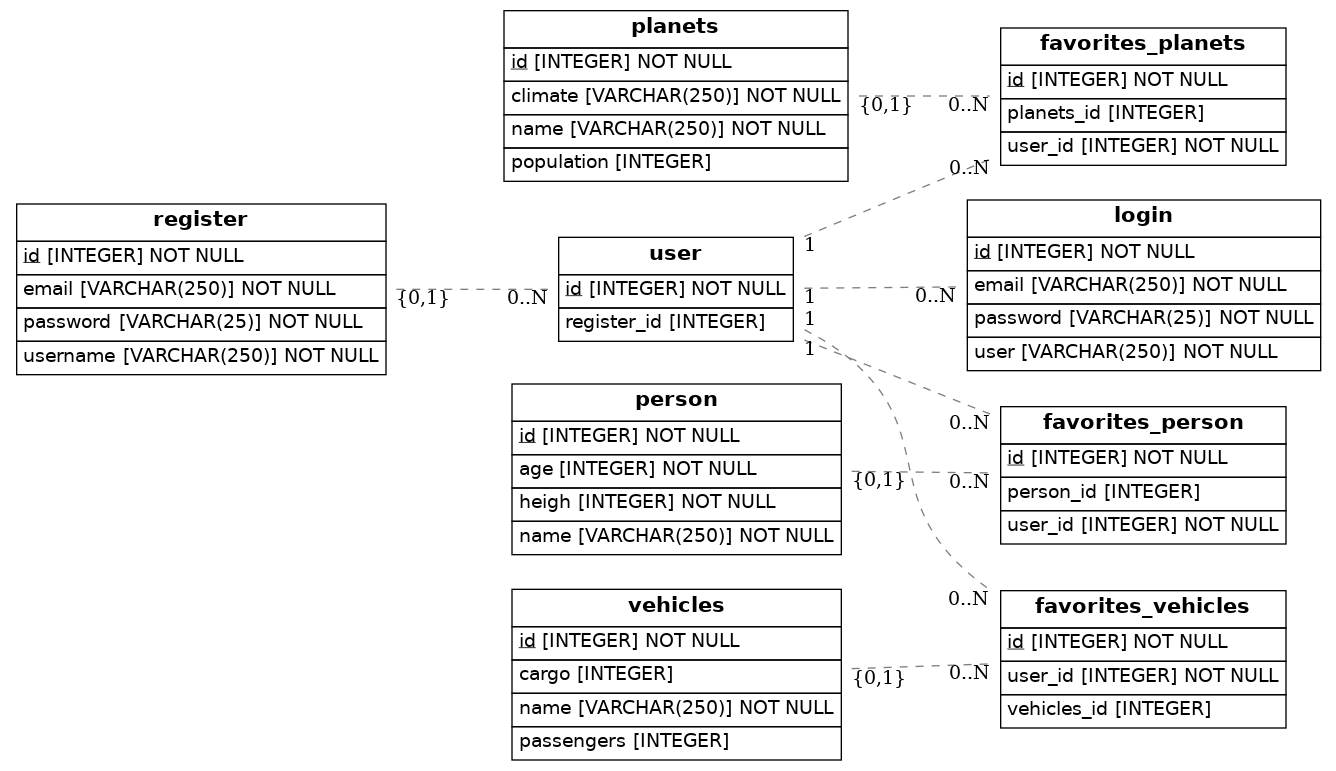
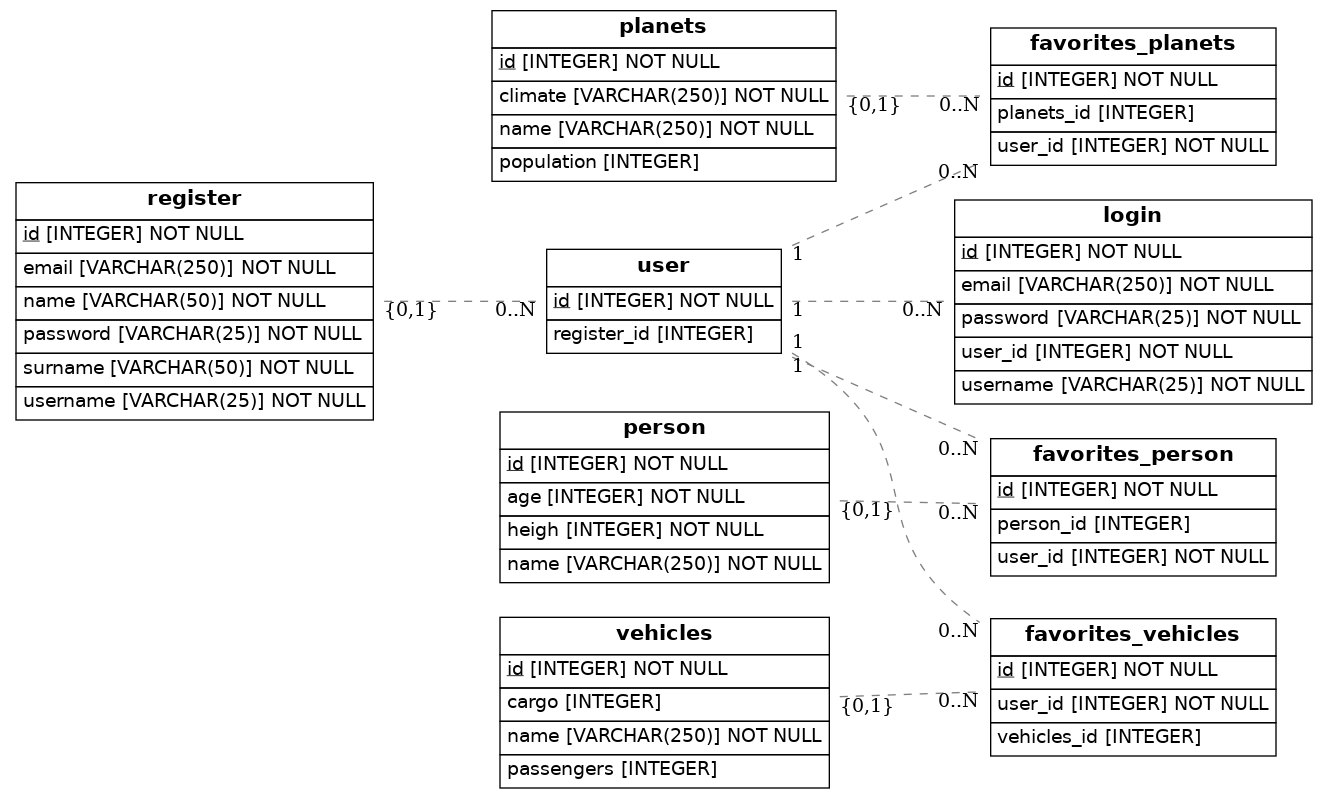
No se si esta bien

diff --git a/src/models.py b/src/models.py
@@ -12,8 +12,10 @@ class Register(Base):
     # Here we define columns for the table person
     # Notice that each column is also a normal Python instance attribute.
     id = Column(Integer, primary_key=True, nullable=False)
-    username = Column(String(250), nullable=False)
+    name = Column(String(50), nullable=False)
+    surname = Column(String(50), nullable=False)
     email = Column(String(250), nullable=False, unique=True)
+    username = Column(String(25), nullable=False)
     password = Column(String(25), nullable=False)
     # favorites = relationship('Favorites', backref='user', lazy=True)
 
@@ -22,9 +24,10 @@ class Login(Base):
     # Here we define columns for the table person
     # Notice that each column is also a normal Python instance attribute.
     id = Column(Integer, primary_key=True, nullable=False)
-    user = Column(String(250), nullable=False)
+    username = Column(String(25), nullable=False)
     email = Column(String(250), nullable=False, unique=True)
-    password = Column(String(25), ForeignKey('user.id'), nullable=False)
+    password = Column(String(25), nullable=False)
+    user_id = Column(Integer, ForeignKey('user.id'), nullable=False) 
 
 class User(Base):
     __tablename__ = 'user'
